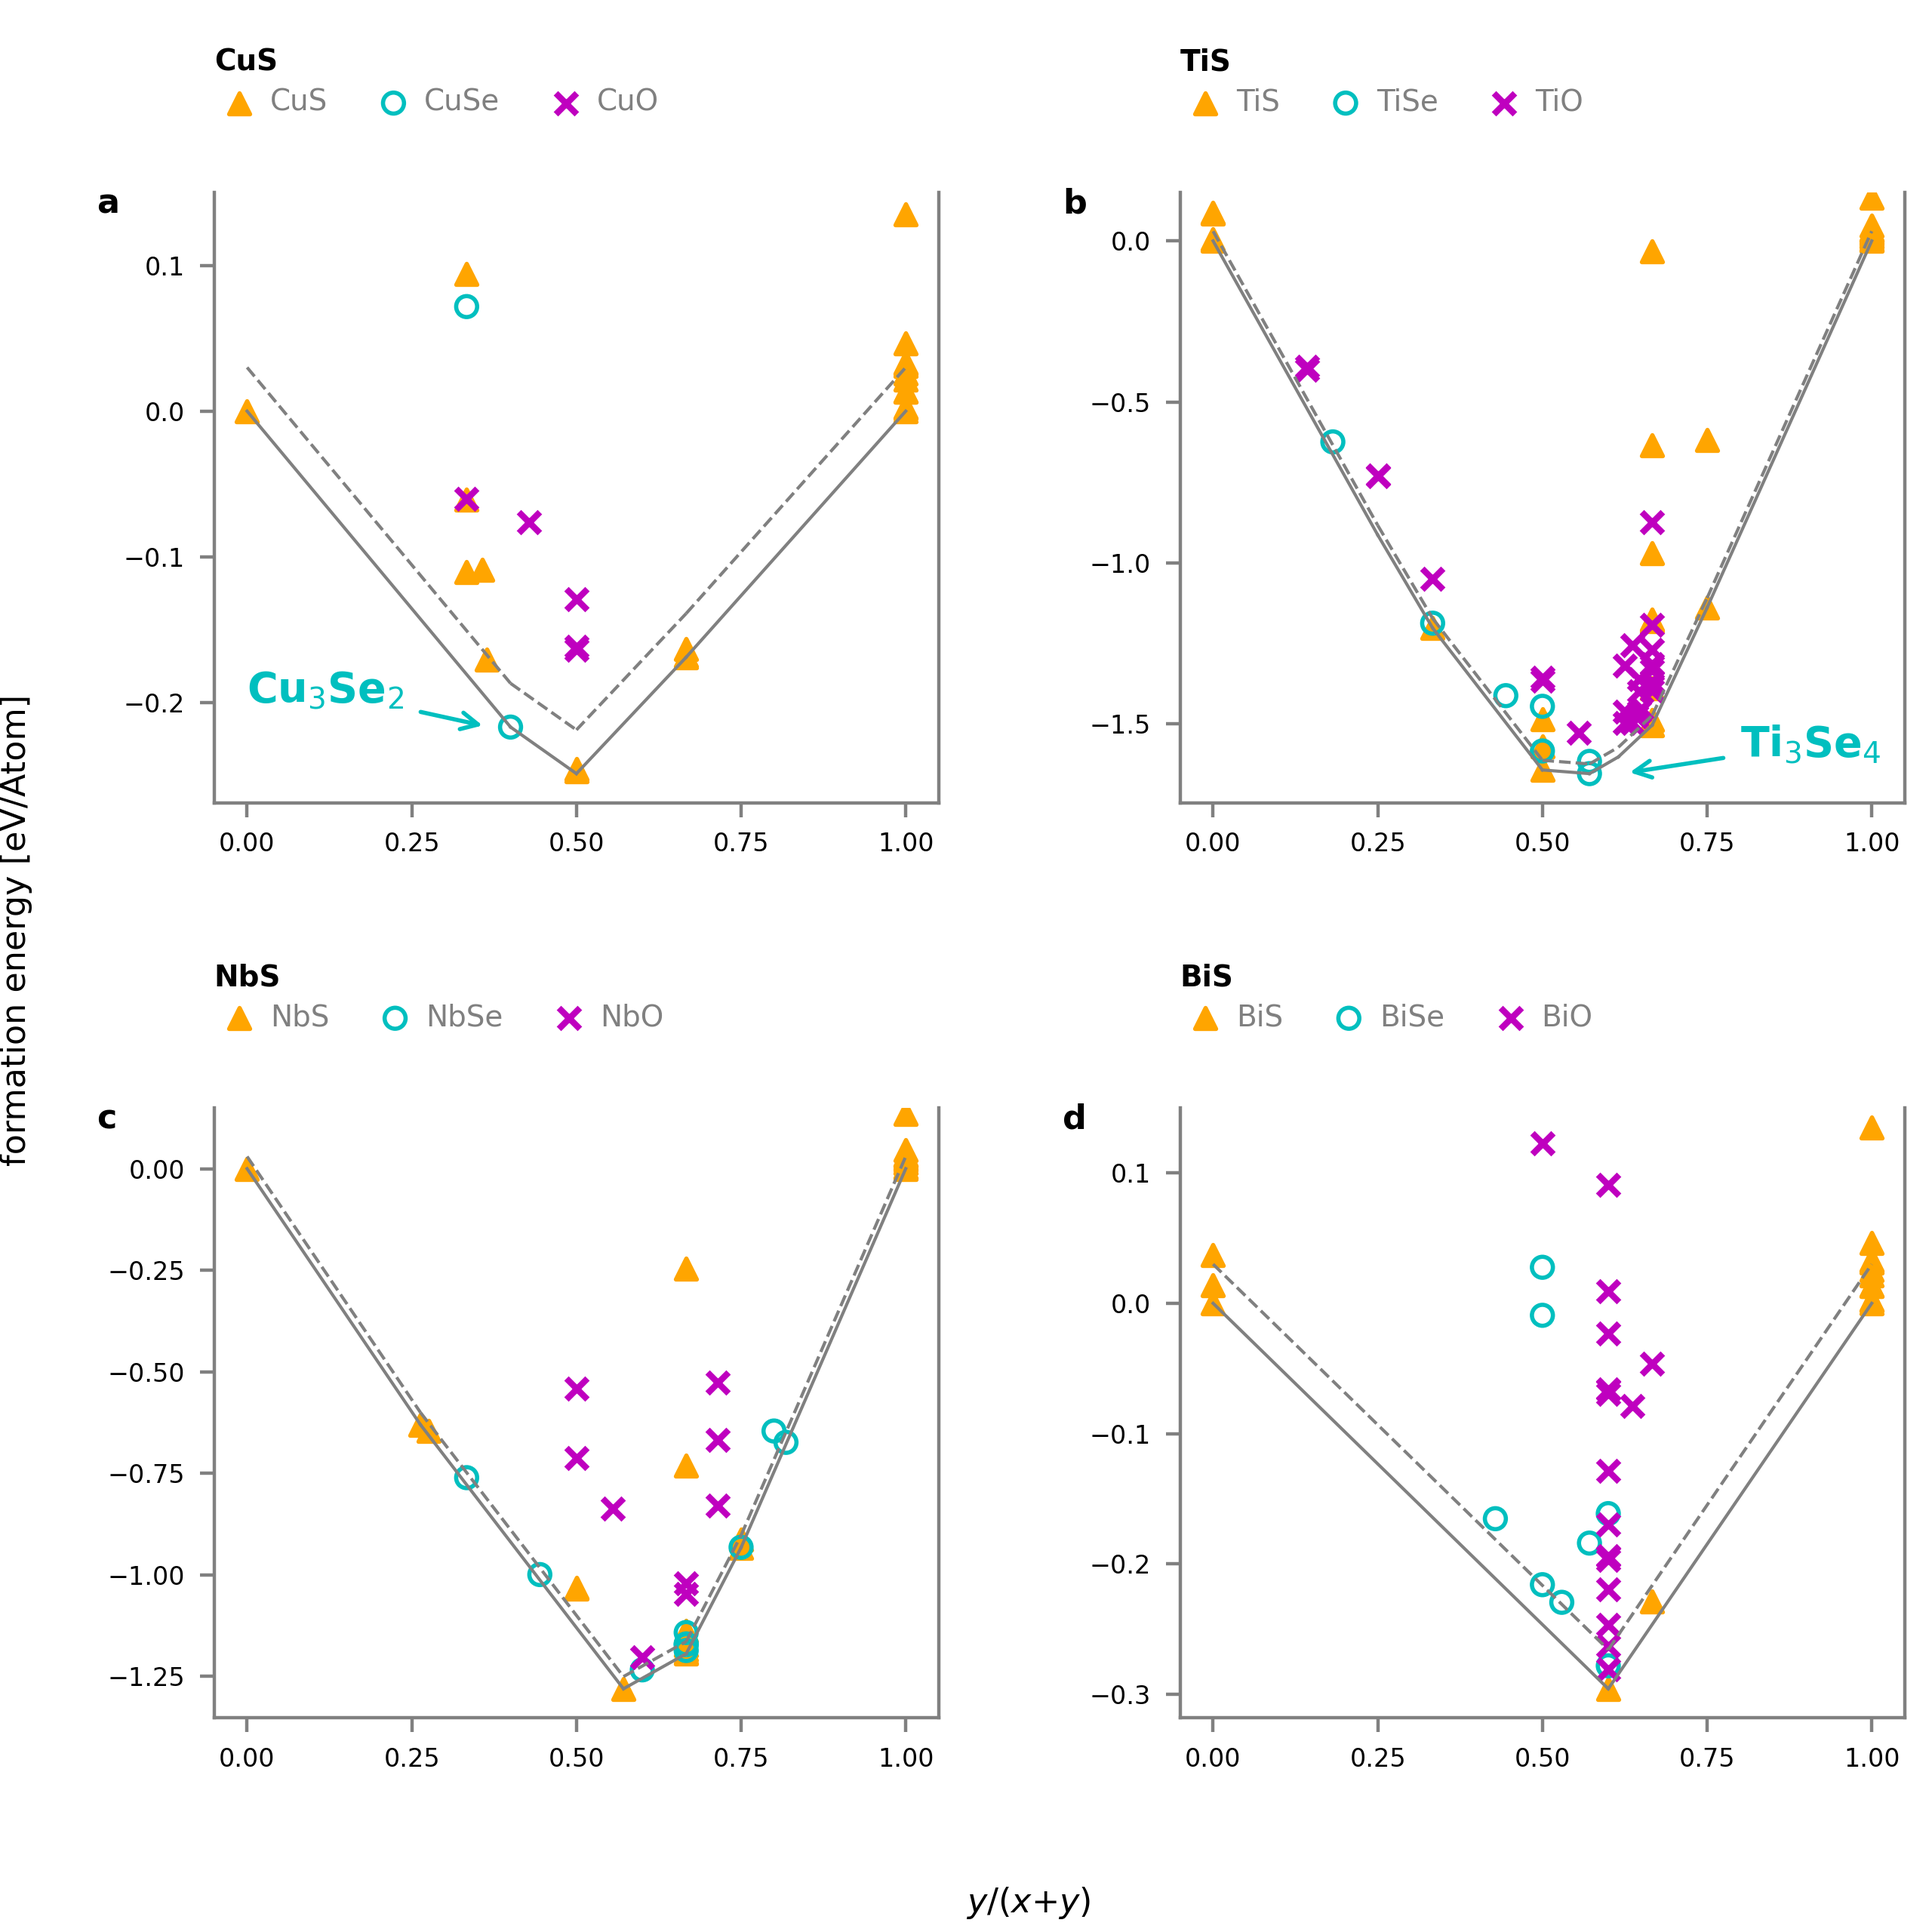
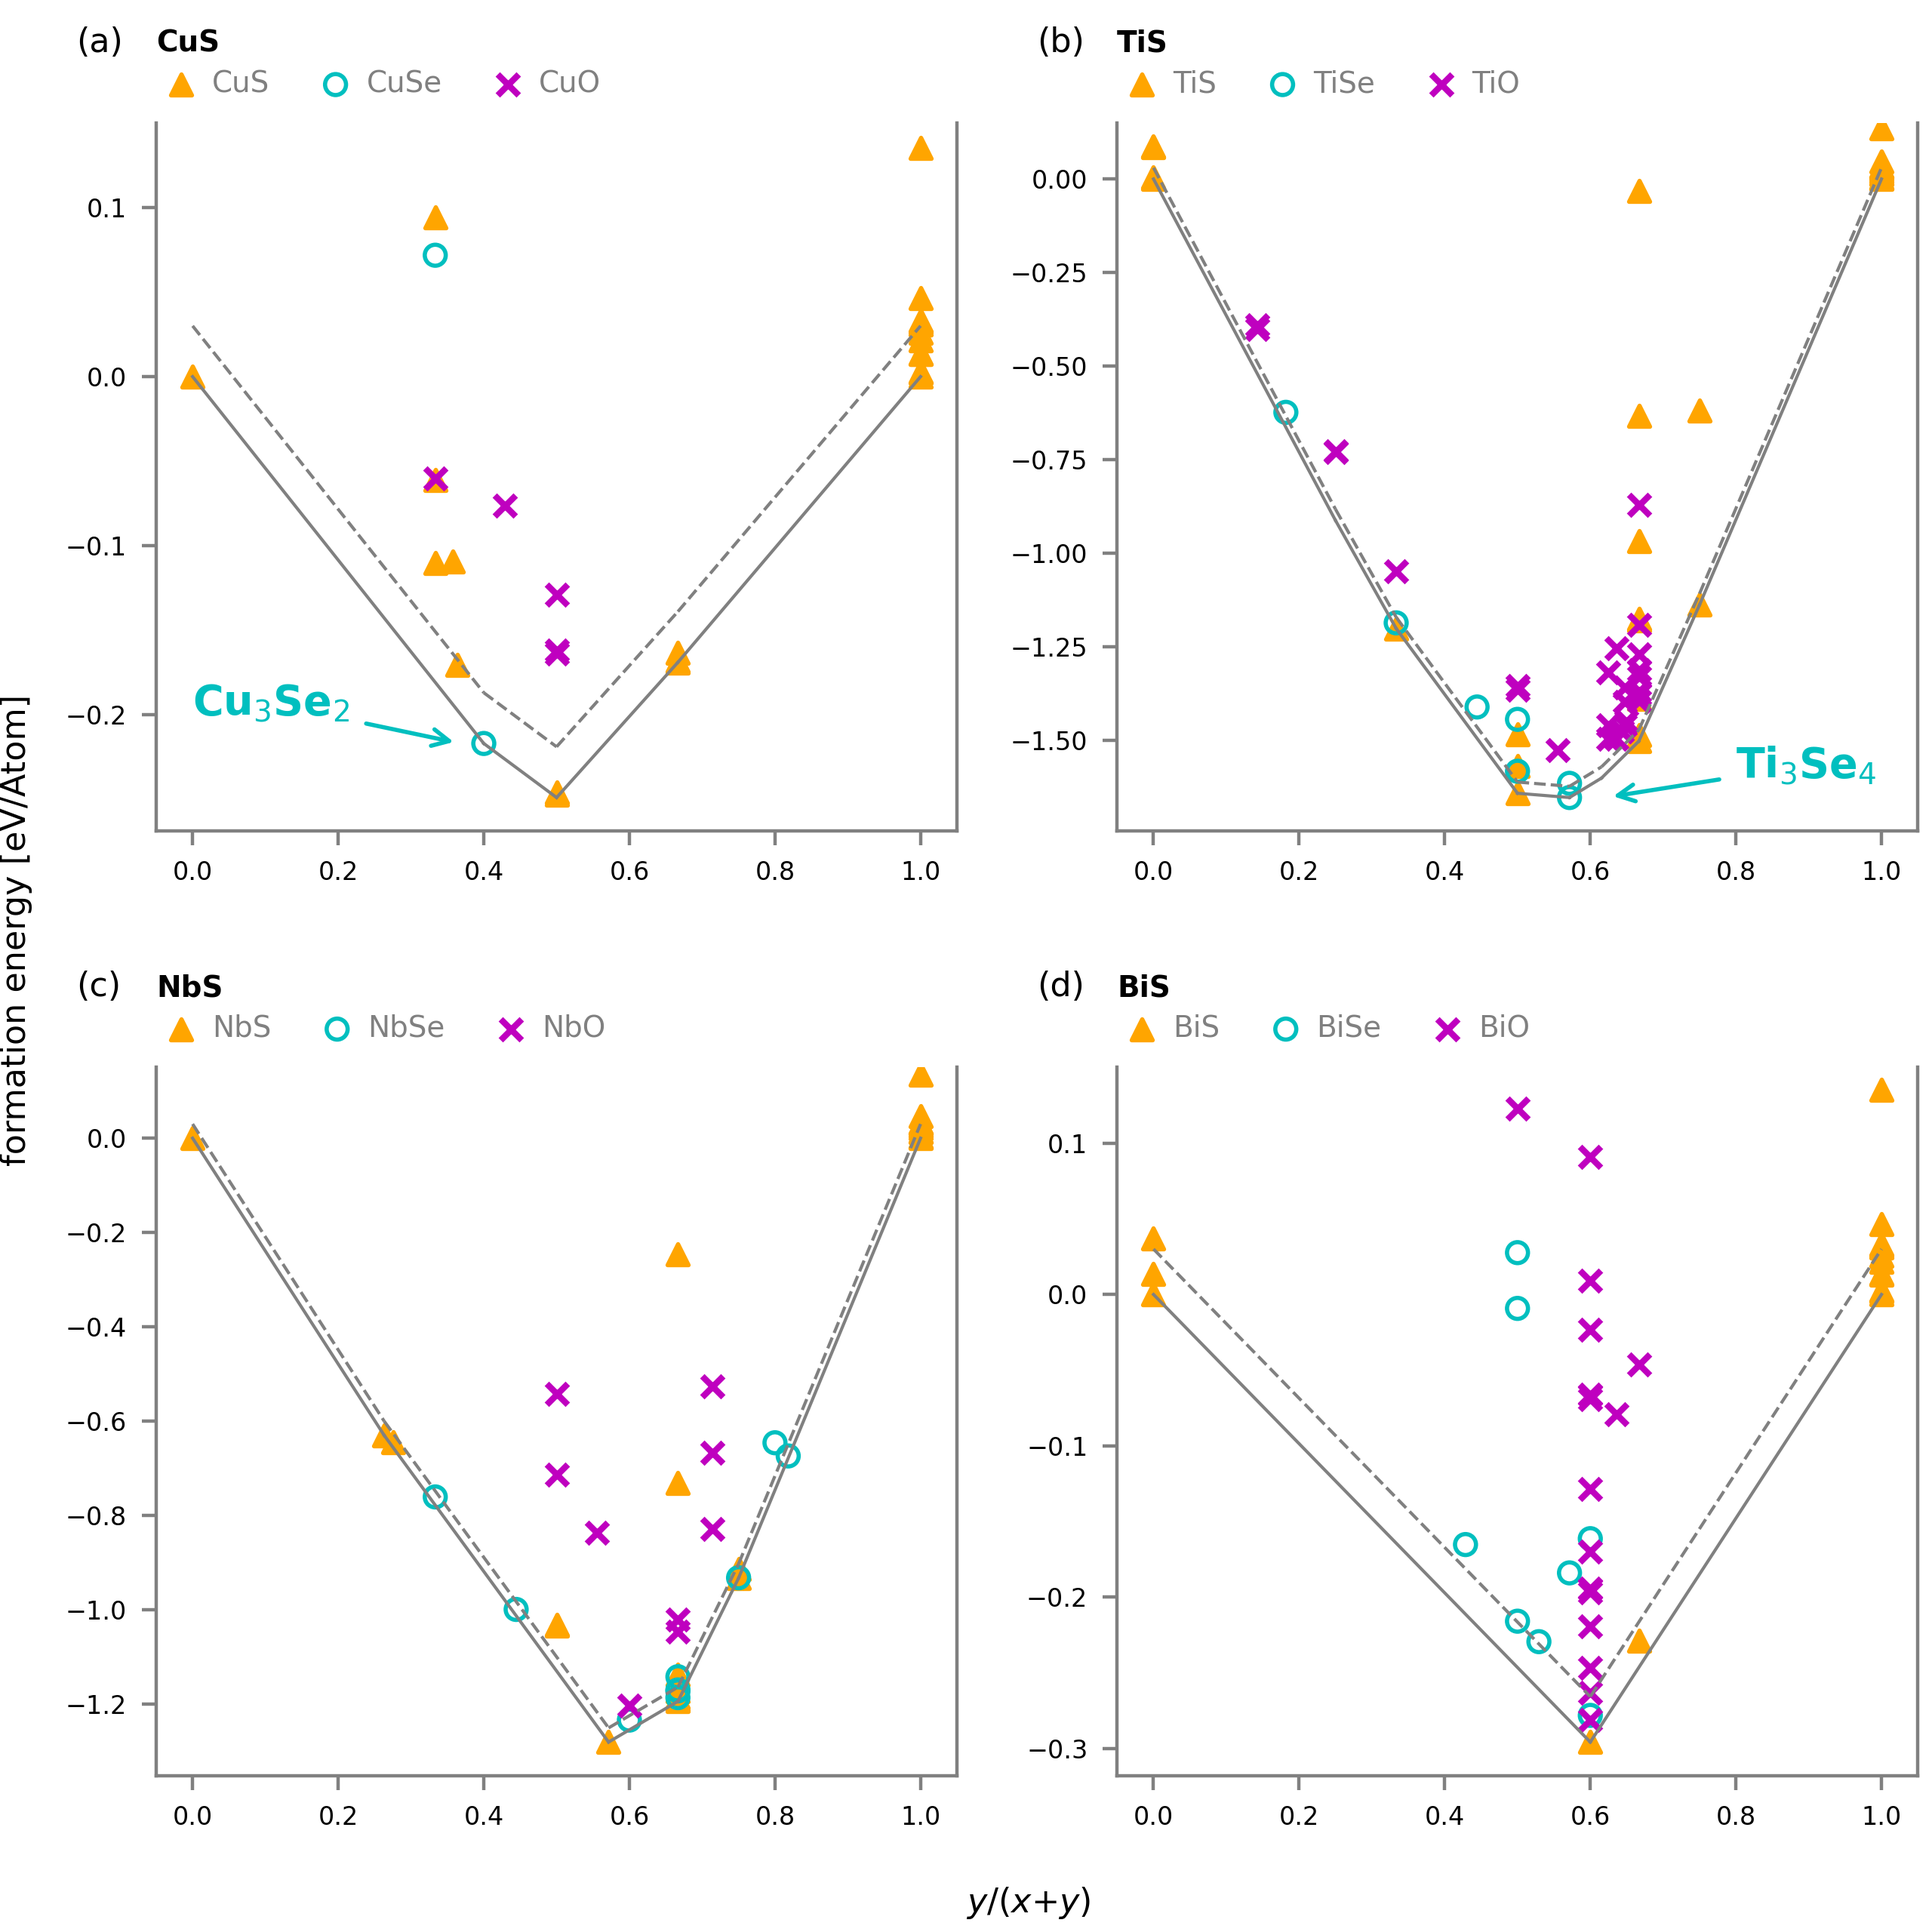
gaps between figure were reduced and figure looks good

diff --git a/Fig_1/fig_1.py b/Fig_1/fig_1.py
@@ -1,0 +1,91 @@
+'''
+changes:
+using convex_hull_layers_function_11 that plot the convex in an ofset
+in order to be able to plot a frame to the convex only.
+
+v_5
+
+trying to add arrows.
+
+'''
+
+import sys
+#sys.path.append('/work/alonh/AUTO_FLOW')
+
+from convex_function_fig_1_and_2 import plot_convex 
+import matplotlib as mpl
+mpl.use('Agg')
+import matplotlib.pyplot as plt
+import numpy as np
+import os
+convex_inputs_file = '/work/alonh/Missing_structures/Figs/V3/Fig_1/fig_1_convex_inputes.txt'
+with open(convex_inputs_file ,'r') as f:
+  lines = f.readlines()
+
+cwd = os.getcwd()
+abc = ['(a)','(b)','(c)','(d)']
+fig = plt.figure(figsize=(6.4,6.4))
+ticks_len = []
+axes = []
+for i,line in enumerate(lines):
+  print (line)
+  #if i  > 1: break
+  ax = plt.subplot(2,2,i+1)
+  ax.axis('off')
+  plt.box('off')
+  splited_line = line.split()
+  path = splited_line[0]
+  input_file = splited_line[1]
+  os.chdir(path)
+  A_atom,proto_atom = input_file.split("_")[:2]
+
+  #plt.yticks()
+
+  for j,tick in enumerate(ax.yaxis.get_major_ticks()):
+    if j ==1 or j==2 or j==3:
+      tick.label1On = False
+    else:
+      tick.label1On = False
+
+
+  #ax.set_xticks([0,0.5,1])
+  ax.set_xticks([])
+  ax.set_yticks([])
+ 
+  # Change font size for xticks and yticks
+  ax.tick_params(axis='x', labelsize=7)
+  ax.tick_params(axis='y', labelsize=8)
+
+
+  plt.xlim(-0.1,1.6)
+
+  axins = plot_convex(ax,[input_file],proto_atom,A_atom,title=None,out_file=None,graph_num=1,proto_graph=True,ptable=None,on_convex_only=None)
+  
+#----  Graph title for each graph e.g. TiS
+  plt.annotate(A_atom+proto_atom,xy=(0.0,1.1),xycoords='axes fraction',fontsize=7,fontweight='bold',color = 'black')
+  plt.annotate(text=abc[i],xy =(-0.1,1.1) ,xycoords='axes fraction',fontsize=8,color='black')        
+
+
+#---- TiS  new sturcture annotation -------
+  if i == 1:
+    axins.annotate("Ti$_{3}$Se$_{4}$", xy=(0.62,-1.654), xytext=(0.8,-1.6),xycoords='data',arrowprops=dict(arrowstyle="->",color='c'),fontsize=10,color='c',fontweight='bold')
+
+#-----  CuS new satructure annotation-------
+  if i == 0:   
+    axins.annotate("Cu$_{3}$Se$_{2}$", xy=(0.37, -0.217), xytext =(0.00, -0.2),xycoords='data',arrowprops=dict(arrowstyle="->",color='c'),fontsize=10,color='c',fontweight='bold')
+
+#----- Axis titles ------------------------
+plt.annotate(text='formation energy [eV/Atom]',xy =(0.0,0.4) ,xycoords='figure fraction',fontsize=8,rotation=90,color='black' )
+plt.annotate(text='$y$/($x$+$y$)',xy =(0.5,0.01) ,xycoords='figure fraction',fontsize=8,color='black')
+
+
+os.chdir(cwd)
+plt.subplots_adjust(left=0.07, right=1.12, top=1.17, bottom=0.07, wspace=-0.1, hspace=-0.2)
+plt.savefig('fig_1.png',dpi=400)
+plt.savefig('fig_1.pdf')
+
+
+
+
+
+

diff --git a/Fig_1/convex_function_fig_1_and_2.py b/Fig_1/convex_function_fig_1_and_2.py
@@ -396,7 +396,7 @@ def plot_convex(ax,input_file,proto_atom,A_atom,title=None,out_file=None,graph_n
           plt.scatter(group[:,0],group[:,1],s=25,color=name_color_dict[group_name],fc=faceKey[group_name],marker=indexKey[group_name],label = legend_names[j])
     
 
-  plt.legend(ncol=3,loc='upper left', borderpad=0.1, handlelength=0.5,bbox_to_anchor=(0, 1.2),scatterpoints=1,fontsize=7,labelcolor='gray',frameon = False)  # first size was 1.4, 1.6
+  plt.legend(ncol=3,loc='upper left', borderpad=0.1, handlelength=0.5,bbox_to_anchor=(0, 1.1),scatterpoints=1,fontsize=7,labelcolor='gray',frameon = False)  # first size was 1.4, 1.6
 
 
   if title != None:
